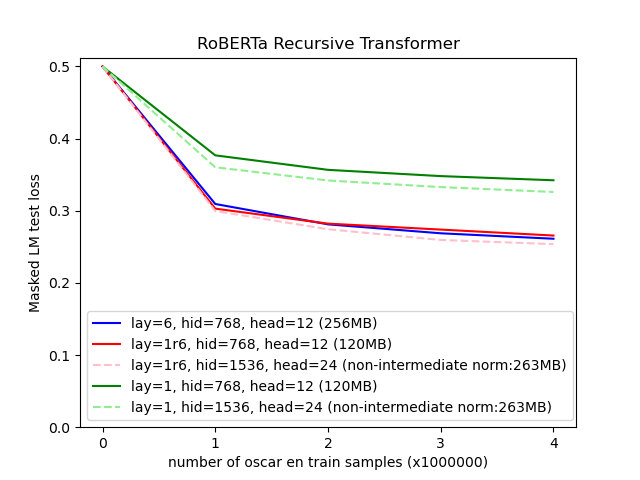
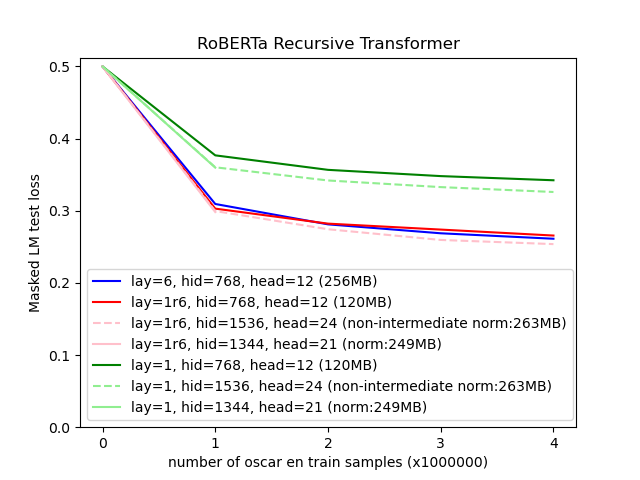
update graph positionEmbeddingTypeRelative/RobertaRecursiveTransformer - start recursiveLayersNormaliseNumParameters ("norm")

diff --git a/graph/recursiveLayers/trainingResults/positionEmbeddingTypeRelative/RobertaRecursiveTransformer.py b/graph/recursiveLayers/trainingResults/positionEmbeddingTypeRelative/RobertaRecursiveTransformer.py
@@ -7,12 +7,16 @@ y2 = np.array([0, 0.42890446846485136, 0.4656440287351608, 0.48165937175750734, 
 y3 = np.array([0, 0.44220867459774016, 0.4677618439912796, 0.4787390529155731, 0.49010481104850767])
 y4 = np.array([0, 0.4473719531536102, 0.47961312062740324, 0.49951700699329377, 0.5067597522258759])
 y5 = np.array([0, 0.3397151798963547, 0.3601354651093483, 0.3720378009200096, 0.3802973414897919])
+y6 = np.array([0, 0.44768228613615035, np.nan, np.nan, np.nan])
+y7 = np.array([0, 0.3375083382666111, np.nan, np.nan, np.nan])
 
 l1, = plt.plot(x, y1, color='green', label='lay=1, hid=768, head=12 (120MB)')
 l2, = plt.plot(x, y2, color='blue', label='lay=6, hid=768, head=12 (256MB)')
 l3, = plt.plot(x, y3, color='red', label='lay=1r6, hid=768, head=12 (120MB)')
 l4, = plt.plot(x, y4, color='pink', label='lay=1r6, hid=1536, head=24 (non-intermediate norm:263MB)', linestyle='dashed')
 l5, = plt.plot(x, y5, color='lightgreen', label='lay=1, hid=1536, head=24 (non-intermediate norm:263MB)', linestyle='dashed')
+l6, = plt.plot(x, y6, color='pink', label='lay=1r6, hid=1344, head=21 (norm:249MB)')
+l7, = plt.plot(x, y7, color='lightgreen', label='lay=1, hid=1344, head=21 (norm:249MB)')
 
 plt.xticks(np.arange(min(x), max(x)+1, 1.0))
 plt.yticks(np.arange(0, 0.5+0.1, 0.1))
@@ -21,6 +25,6 @@ plt.xlabel("number of oscar en train samples (x1000000)")
 plt.ylabel("Masked LM test accuracy (Top-1)")
 plt.title("RoBERTa Recursive Transformer")
 
-plt.legend(handles=[l2, l3, l4, l1, l5], loc='lower left')
+plt.legend(handles=[l2, l3, l4, l6, l1, l5, l7], loc='lower left')
 
 plt.show()

diff --git a/graph/recursiveLayers/trainingResults/positionEmbeddingTypeRelative/RobertaRecursiveTransformer-loss.py b/graph/recursiveLayers/trainingResults/positionEmbeddingTypeRelative/RobertaRecursiveTransformer-loss.py
@@ -7,12 +7,16 @@ y2 = np.array([0.5, 0.30940675837397574, 0.28117460092902186, 0.2687879767358303
 y3 = np.array([0.5, 0.30296802766025066, 0.28217491447329524, 0.27392400919795035, 0.2656524788528681])
 y4 = np.array([0.5, 0.2995814057946205, 0.27438519304990766, 0.2595572123140097, 0.2537853354871273])
 y5 = np.array([0.5, 0.36026279502511027, 0.34200011098980904, 0.3328074170410633, 0.32603148027658463])
+y6 = np.array([0.5, 0.2982051469832659, np.nan, np.nan, np.nan])
+y7 = np.array([0.5, 0.3598037402355671, np.nan, np.nan, np.nan])
 
 l1, = plt.plot(x, y1, color='green', label='lay=1, hid=768, head=12 (120MB)')
 l2, = plt.plot(x, y2, color='blue', label='lay=6, hid=768, head=12 (256MB)')
 l3, = plt.plot(x, y3, color='red', label='lay=1r6, hid=768, head=12 (120MB)')
 l4, = plt.plot(x, y4, color='pink', label='lay=1r6, hid=1536, head=24 (non-intermediate norm:263MB)', linestyle='dashed')
 l5, = plt.plot(x, y5, color='lightgreen', label='lay=1, hid=1536, head=24 (non-intermediate norm:263MB)', linestyle='dashed')
+l6, = plt.plot(x, y6, color='pink', label='lay=1r6, hid=1344, head=21 (norm:249MB)')
+l7, = plt.plot(x, y7, color='lightgreen', label='lay=1, hid=1344, head=21 (norm:249MB)')
 
 plt.xticks(np.arange(min(x), max(x)+1, 1.0))
 plt.yticks(np.arange(0, 0.5+0.1, 0.1))
@@ -21,6 +25,6 @@ plt.xlabel("number of oscar en train samples (x1000000)")
 plt.ylabel("Masked LM test loss")
 plt.title("RoBERTa Recursive Transformer")
 
-plt.legend(handles=[l2, l3, l4, l1, l5])
+plt.legend(handles=[l2, l3, l4, l6, l1, l5, l7])
 
 plt.show()
